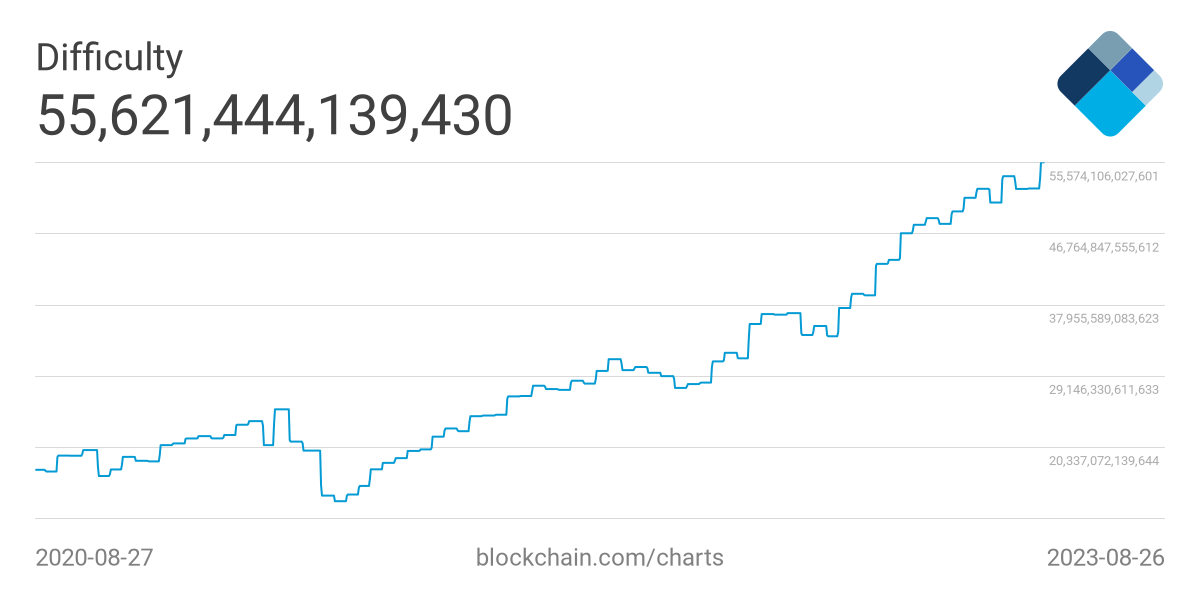
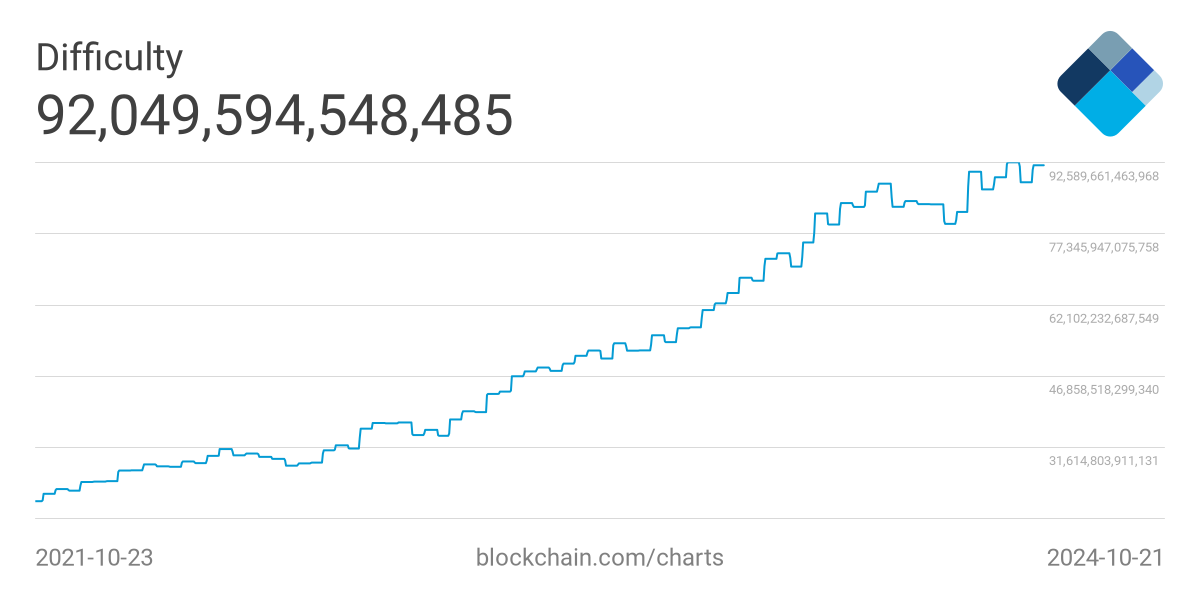
Updates cryptocurrency slide set with today's numbers

diff --git a/slides/cryptocurrency.html b/slides/cryptocurrency.html
@@ -433,11 +433,17 @@ Really just the last two will be relevant to this class
 </section>
 <section id="what-is-a-cryptocurrency-1" class="slide level2">
 <h2>What is a cryptocurrency?</h2>
-<p>According to Jan Lansky (<a href="http://si-journal.org/index.php/JSI/article/viewFile/335/325">source</a>) it has the following six properties: 1. No central authority, and its state is maintained through distributed consensus 2. The system keeps an overview of cryptocurrency units and their ownership 3. The system defines whether new cryptocurrency units can be created and how 4. Ownership of cryptocurrency units can be proved exclusively cryptographically</p>
+<p>According to Jan Lansky (<a href="http://si-journal.org/index.php/JSI/article/viewFile/335/325">source</a>) it has the following six properties:</p>
+<ol type="1">
+<li>No central authority, and its state is maintained through distributed consensus</li>
+<li>The system keeps an overview of cryptocurrency units and their ownership</li>
+<li>The system defines whether new cryptocurrency units can be created and how</li>
+<li>Ownership of cryptocurrency units can be proved exclusively cryptographically</li>
+</ol>
 </section>
 <section id="what-is-a-cryptocurrency-2" class="slide level2">
 <h2>What is a cryptocurrency?</h2>
-According to Jan Lansky (<a href="http://si-journal.org/index.php/JSI/article/viewFile/335/325">source</a>) it has the following six properties:
+<p>According to Jan Lansky (<a href="http://si-journal.org/index.php/JSI/article/viewFile/335/325">source</a>) it has the following six properties:</p>
 <ol start="5">
 <li>
 The system allows for transactions (transfers), which can only occur from the entity that can prove ownership of the source currency
@@ -450,10 +456,10 @@ If two different instructions for changing the ownership of the same cryptograph
 <section id="consider-the-aarondollar-tm" class="slide level2">
 <h2>Consider the AaronDollar (TM)</h2>
 <div class="noboxshadow">
-<p><img data-src="images/cryptocurrency/aaron-dollar.png"></p>
+<p><img data-src="images/cryptocurrency/aaron-dollar.png" style="background-color:transparent;height:400px"></p>
 </div>
 <ul>
-<li>Would you pay me 1 dollar for it? What about <code>$</code>10? <code>$</code>100?
+<li>Would you pay me 1 dollar for it? What about $10? $100?
 </li><li class="fragment" data-fragment-index="1">
 If I told you it would buy you an A+ in this course…
 <ul>
@@ -484,7 +490,7 @@ Would you pay me <code>$</code>100 then?
 <li>Some examples:
 <ul>
 <li>The US Dollar is the most widely used in international financial transactions</li>
-<li><img data-src="https://upload.wikimedia.org/wikipedia/commons/e/e3/Moneda_1_Bol%C3%ADvar_2021.png"> Due to the <a href="https://en.wikipedia.org/wiki/Crisis_in_Venezuela">crisis in Venezuela</a>, the Venezuelan <a href="https://en.wikipedia.org/wiki/Venezuelan_bol%C3%ADvar">bolivar soberano</a> (VEB), and its predecessor the bolivar fuerte, are essentially worthless
+<li><img data-src="https://upload.wikimedia.org/wikipedia/commons/e/e3/Moneda_1_Bol%C3%ADvar_2021.png" style="background-color:transparent"> Due to the <a href="https://en.wikipedia.org/wiki/Crisis_in_Venezuela">crisis in Venezuela</a>, the Venezuelan <a href="https://en.wikipedia.org/wiki/Venezuelan_bol%C3%ADvar">bolivar soberano</a> (VEB), and its predecessor the bolivar fuerte, are essentially worthless
 <ul>
 <li>The VEB had a 1,698,488% (yes, 1.7 <em>million</em> percent) inflation rate in 2018</li>
 <li>And about 5,000% in 2020</li>
@@ -493,7 +499,7 @@ Would you pay me <code>$</code>100 then?
 <ul>
 <li>Official currencies: USD and BTC</li>
 <li>Thus, little control over monetary policy…</li>
-<li>In 2021 they mined <code>$</code>269 in BTC for <code>$</code>4,672 (<a href="https://slashdot.org/story/21/12/11/188219/foreign-policy-magazine-bitcoin-failed-in-el-salvador-is-the-answer-more-bitcoin">source</a>)</li>
+<li>In 2021 they mined $269 in BTC for $4,672 (<a href="https://slashdot.org/story/21/12/11/188219/foreign-policy-magazine-bitcoin-failed-in-el-salvador-is-the-answer-more-bitcoin">source</a>)</li>
 </ul></li>
 </ul></li>
 </ul>
@@ -514,9 +520,9 @@ Would you pay me <code>$</code>100 then?
 <section id="cryptocurrencies" class="slide level2">
 <h2>Cryptocurrencies</h2>
 <ul>
-<li>There are 8,906 existing cryptocurrencies (that have value) <!-- change each semester -->
+<li>There are 9,906 existing cryptocurrencies (that have value) <!-- change each semester -->
 <ul>
-<li>As per <a href="https://www.investing.com/crypto/currencies">investing.com</a> (as of Aug 27, 2023)</li>
+<li>As per <a href="https://www.investing.com/crypto/currencies">investing.com</a> (as of Oct 22, 2024)</li>
 </ul></li>
 <li>One estimate is that 100 new ones are created <em>each day</em>
 <ul>
@@ -535,7 +541,7 @@ Would you pay me <code>$</code>100 then?
 <section id="bitcoin-basics" class="title-slide slide level1 center">
 <h1>Bitcoin Basics</h1>
 <div class="cclogosubtitle noboxshadow">
-<p><img data-src="images/cryptocurrency/btc-coin-symbol.svg"></p>
+<p><img data-src="images/cryptocurrency/btc-coin-symbol.svg" style="background-color:transparent"></p>
 </div>
 <!-- .slide: class="right-float-img .img-size-300" -->
 </section>
@@ -676,9 +682,9 @@ The actual record high varies by source
 <ul>
 <li>Thus, you can’t make a change to a previous block without changing all successive blocks</li>
 </ul></li>
-<li>The current blockchain (as of Aug 27, 2023) is 805,090 blocks (aka ‘height’; <a href="https://bitinfocharts.com/">source</a>)
+<li>The current blockchain (as of Oct 22, 2024) is 866,798 blocks (aka ‘height’; <a href="https://bitinfocharts.com/">source</a>)
 <ul>
-<li>About 494 Gb in size (<a href="https://www.blockchain.com/charts/blocks-size">source</a>) <!-- change each semester (be sure to divide that number by 1024) --></li>
+<li>About 610 Gb in size (<a href="https://www.blockchain.com/charts/blocks-size">source</a>) <!-- change each semester (be sure to divide that number by 1024) --></li>
 </ul></li>
 </ul>
 </section>
@@ -707,7 +713,7 @@ Simple Blockchain
 <section id="mining" class="title-slide slide level1 center">
 <h1>Mining</h1>
 <div class="cclogosubtitle noboxshadow">
-<p><img data-src="images/cryptocurrency/btc-coin-symbol.svg"></p>
+<p><img data-src="images/cryptocurrency/btc-coin-symbol.svg" style="background-color:transparent"></p>
 </div>
 </section>
 <section id="mining-1" class="slide level2">
@@ -766,16 +772,10 @@ Simple Blockchain
 <h2>Difficulty</h2>
 <ul>
 <li>First target (<span class="math inline">\(ft\)</span>): 00000000ffff00000000000000 00000000000000000000000000000000000000 <!-- formula: ft=26959535291011309493156476344723991336010898738574164086137773096960 --></li>
-<li>The current target (<span class="math inline">\(ct\)</span>) is 0000000000000000000561020000000 000000000000000000000000000000000 <!-- formula: ct=515199788182065911307653755120147792390991404454641664 -->
+<li>The current target (<span class="math inline">\(ct\)</span>) is 000000000000000000030ecd00000000 00000000000000000000000000000000 <!-- formula: ct=292880543616200952099263829421844968289989913814761472 -->
 <ul>
-<li>As of Aug 27, 2023 and can be found <a href="http://learnmeabitcoin.com/glossary/target">here</a>
-<ul>
-<li>That site is almost 5,000 blocks behind… <!-- change each semester --></li>
-</ul></li>
-<li>The new target is harder than the old: specifically <span class="math inline">\(ft/ct\)</span> = 52,328,312,063,444 times harder (that’s 52.3 <em>trillion</em>)
-<ul>
-<li>Actually it’s about 55.6 trillion now<!-- set this value to diff, such as via the formula: diff=55.62*10^12 --></li>
-</ul></li>
+<li>As of Oct 22, 2024 and can be found <a href="http://learnmeabitcoin.com/glossary/target">here</a> <!-- change each semester --></li>
+<li>The new target is harder than the old: specifically <span class="math inline">\(ft/ct\)</span> = 92,049,594,548,485 times harder (that’s 92 <em>trillion</em>) <!-- formula: diff=ft/ct --></li>
 </ul></li>
 <li>This number is the bitcoin <em>difficulty</em>, and the latest value can be found <a href="https://www.coinwarz.com/mining/bitcoin/difficulty-chart">here</a></li>
 </ul>
@@ -784,9 +784,9 @@ Simple Blockchain
 <h2>Current hash difficulty</h2>
 <ul>
 <li>For the first target, a random nonce had a 1 in 4.3 billion chance of success</li>
-<li>The current target is 55.6 trillion times harder
+<li>The current target is 92 trillion times harder
 <ul>
-<li>A random nonce now has a 1 in <span class="math inline">\(2.39 \times 10^{23}\)</span> chance of success <!-- change each semester; formula: chance=diff*2^32 --></li>
+<li>A random nonce now has a 1 in <span class="math inline">\(3.95 \times 10^{23}\)</span> chance of success <!-- change each semester; formula: chance=diff*2^32 --></li>
 </ul></li>
 </ul>
 </section>
@@ -801,8 +801,8 @@ Simple Blockchain
 <li>A very fast CPU today could do about 25 Mhash/sec</li>
 <li>A <a href="https://www.amazon.com/gp/product/B07GHXQTGZ/">$1,500 video card</a> today could do about 800 Mhash/sec (estimate based on <a href="https://en.bitcoin.it/wiki/Non-specialized_hardware_comparison#Nvidia">this</a> and <a href="https://gpu.userbenchmark.com/Compare/Nvidia-RTX-2080-vs-Nvidia-GeForce-GTX-590-SLI-Disabled/4026vsm8041">this</a>)</li>
 </ul></li>
-<li>Consider a 1 in <span class="math inline">\(2.39 \times 10^{23}\)</span> chance of success</li>
-<li>To generate <span class="math inline">\(2.39 \times 10^{23}\)</span> hashes at 800 million (8 Mhash) per second on a fast graphics card, this will take 9.5 <em>million years</em> <!-- change each semester; formula: gpuyears=chance/(365.25*24*60*60*800*10^6) --></li>
+<li>Consider a 1 in <span class="math inline">\(3.95 \times 10^{23}\)</span> chance of success</li>
+<li>To generate <span class="math inline">\(3.95 \times 10^{23}\)</span> hashes at 800 million (8 Mhash) per second on a fast graphics card, this will take 15.6 <em>million years</em> <!-- change each semester; formula: gpuyears=chance/(365.25*24*60*60*800*10^6) --></li>
 </ul>
 </section>
 <section id="electricity-usage" class="slide level2">
@@ -813,7 +813,7 @@ Simple Blockchain
 <ul>
 <li>A graphics card uses about 400 W (watts) (estimated from <a href="https://en.bitcoin.it/wiki/Non-specialized_hardware_comparison#Nvidia">here</a>)</li>
 <li>Electricity in Charlottesville costs 11.04 cents per kW/h (as per <a href="https://www.electricitylocal.com/states/virginia/charlottesville/">here</a>)</li>
-<li>This would cost about 3.7 billion dollars <!-- change each semester; formula: elecost=gpuyears*400/1000*24*365.25*0.1104 --></li>
+<li>This would cost about 6.1 billion dollars <!-- change each semester; formula: elecost=gpuyears*400/1000*24*365.25*0.1104 --></li>
 </ul>
 </section>
 <section id="why-so-hard" class="slide level2">
@@ -899,14 +899,14 @@ Simple Blockchain
 <section id="reward-per-block-1" class="slide level2">
 <h2>Reward per block</h2>
 <ul>
-<li>The current reward (as of Aug 27, 2023) is 6.25 BTC <!-- change each semester -->
+<li>The current reward (as of Oct 22, 2024) is 3.125 BTC <!-- change each semester -->
 <ul>
 <li>Plus transaction fees of around 0.1 BTC or so</li>
 <li>The estimated date when it drops to 3.125 BTC is April 2024 (<a href="https://www.bitcoinblockhalf.com/">source</a>)</li>
 </ul></li>
-<li>At a price of about $26k per block (<a href="https://www.coindesk.com/price/bitcoin">source</a>), 6.35 BTC is about $166k for a properly signed block <!-- change each semester --><!-- formula: reward=166*1000 -->
+<li>At a price of about $68.4k per block (<a href="https://www.coindesk.com/price/bitcoin">source</a>), 3.225 BTC is about $220k for a properly signed block <!-- change each semester --><!-- formula: reward=220*1000 -->
 <ul>
-<li>But if it costs almost 4 billion dollars in electricity, perhaps it’s not all that worth it</li>
+<li>But if it costs over 6 billion dollars in electricity, perhaps it’s not all that worth it <!-- change this each semester --></li>
 <li>Unless you use somebody else’s electricity…</li>
 </ul></li>
 </ul>
@@ -936,7 +936,7 @@ Simple Blockchain
 </section>
 <section id="hashes-per-second" class="slide level2">
 <h2>Hashes per second</h2>
-<p>From <a href="https://www.blockchain.com/charts/hash-rate">blockchain.com</a>, and for the entire Bitcoin network; E = exa = <span class="math inline">\(10^{18}\)</span> <!-- change each semester --> <!-- formula: hashrate=390.9*10^18 --> <img data-src="images/cryptocurrency/btc-hashes-per-sec.webp" alt="hashes per second"></p>
+<p>From <a href="https://www.blockchain.com/charts/hash-rate">blockchain.com</a>, and for the entire Bitcoin network;<br>E = exa = <span class="math inline">\(10^{18}\)</span> <!-- change each semester --> <!-- formula: hashrate=663*10^18 --> <img data-src="images/cryptocurrency/btc-hashes-per-sec.webp" alt="hashes per second"></p>
 </section>
 <section id="mining-hardware" class="slide level2">
 <h2>Mining hardware</h2>
@@ -946,10 +946,11 @@ Simple Blockchain
 <ul>
 <li>A whole industry has sprung up: you can find the hardware online (such as <a href="https://www.bitcoinmining.com/bitcoin-mining-hardware/">here</a>)</li>
 <li>These devices are much faster and use much less electricity</li>
-<li>Consider the <a href="https://www.amazon.com//dp/B08ZNMGKZ1/">DragonX AntMiner S19</a>, which costs <code>$</code>1,200 (as of Aug 27, 2023)
+<li>Consider the <a href="https://www.amazon.com//dp/B08ZNMGKZ1/">DragonX AntMiner S19</a>, which costs $1,200 (as of Oct 22, 2024)
 <ul>
 <li>It can compute 90 Thash/sec (tera), or <span class="math inline">\(90 \ast 10^{12}=9 \ast 10^{13}\)</span> hash/sec</li>
 <li>I don’t believe their numbers that they posted at that link, though</li>
+<li>This is now a much older miner</li>
 </ul></li>
 </ul>
 </section>
@@ -974,13 +975,13 @@ Simple Blockchain
 <ul>
 <li>We know that:
 <ul>
-<li>The current hash rate is about 391 EH/s</li>
-<li>Blocks take about 10 minutes to process (actually about 12m 6s right now (<a href="https://bitinfocharts.com/">source</a>))</li>
+<li>The current hash rate is about 663 EH/s</li>
+<li>Blocks take about 10 minutes to process (actually about 9m 4s right now (<a href="https://bitinfocharts.com/">source</a>))</li>
 <li>The <a href="https://www.amazon.com/dp/B08ZNMGKZ1">DragonX AntMiner S19</a> claims to hash 90 TH/s <!-- formula: minerrate=90*10^12 --></li>
 </ul></li>
-<li>391 exa / 90 tera = <span class="math inline">\(391 \cdot 10^{18} / 90 \cdot 10^{12} = 4.34 \cdot 10^{6}\)</span> or 4 million <!-- formula: blockreward=hashrate/minerrate --></li>
-<li>Thus, you would expect to get one 4-millionth of a block’s reward in a pooled setup <!-- formula: profitperblock=reward/blockreward --></li>
-<li>At <code>$</code>166 per block, that’s about 3.8 <em>cents</em> per block</li>
+<li>663 exa / 90 tera = <span class="math inline">\(663 \cdot 10^{18} / 90 \cdot 10^{12} = 7.4 \cdot 10^{6}\)</span> or 7.4 million <!-- formula: blockreward=hashrate/minerrate --></li>
+<li>Thus, you would expect to get one 7.4-millionth of a block’s reward in a pooled setup <!-- formula: profitperblock=reward/blockreward --></li>
+<li>At $220k per block, that’s about 2.9 <em>cents</em> per block</li>
 <li>(And we aren’t counting electricity here)</li>
 </ul>
 </section>
@@ -988,21 +989,21 @@ Simple Blockchain
 <h2><a href="https://www.amazon.com/dp/B08ZNMGKZ1">DragonX AntMiner S19</a> analysis</h2>
 <!-- change each semester -->
 <ul>
-<li>At <code>$</code>166 per block, that’s about 3.8 cents per block
+<li>At $220k per block, that’s about 2.9 cents per block
 <ul>
-<li>Which is $5.50 per day <!-- formula: profitperday=profitperblock*24*6 -->
+<li>Which is $4.30 per day <!-- formula: profitperday=profitperblock*24*6 -->
 <ul>
-<li>This assumes 10 minute blocks; it’s a less with 12m6s blocks</li>
+<li>This assumes 10 minute blocks; it’s a bit more with 9m4s blocks</li>
 </ul></li>
-<li>You will make back your initial investment of <code>$</code>1,200 (plus tax) 220 days
+<li>You will make back your initial investment of $1,200 (plus tax) 280 days
 <ul>
-<li>That’s 7.3 months</li>
+<li>That’s 9.3 months</li>
 </ul></li>
 </ul></li>
 <li>This assumes that the numbers don’t change!
 <ul>
 <li>And that you aren’t paying for electricity</li>
-<li>And we know the reward per block will go down in April of 2024…</li>
+<li>And we know the reward per block will go down in April of 2028…</li>
 </ul></li>
 <li>There is also <a href="https://www.amazon.com/dp/B0CCK4RDJF/">one available</a> that mines twice times as fast but costs 3.5 times as much, but uses less power</li>
 </ul>
@@ -1011,19 +1012,19 @@ Simple Blockchain
 <h2><a href="https://www.amazon.com/dp/B08ZNMGKZ1">DragonX AntMiner S19</a> analysis</h2>
 <!-- change each semester -->
 <ul>
-<li>You will make $5.50 in BTC per day</li>
+<li>You will make $4.30 in BTC per day</li>
 <li>But… electricity is not free</li>
 <li>Stated power usage: 3,250 W or 3.25 kW
 <ul>
 <li>Over 24 hours that’s <span class="math inline">\(24 * 3.25 = 78\)</span> kWh</li>
-<li>At Charlottesville’s rate of 11.04¢ per kWh, that’s <code>$</code>8.61 per day
+<li>At Charlottesville’s rate of 11.04¢ per kWh, that’s $8.61 per day
 <ul>
-<li>About <code>$</code>260 per month</li>
+<li>About $260 per month</li>
 </ul></li>
 </ul></li>
-<li>So your total daily profit is: <code>$</code>5.50 - <code>$</code>8.61 or
+<li>So your total daily profit is: $4.30 - $8.61 or
 <ul>
-<li><em>Negative</em> <code>$</code>3.11 cents per day!</li>
+<li><em>Negative</em> $4.31 cents per day!</li>
 </ul></li>
 </ul>
 </section>
@@ -1040,7 +1041,7 @@ Simple Blockchain
 </ul></li>
 <li>When done on a large scale
 <ul>
-<li>One can make deals with power companies, locate where power is cheaper, etc.</li>
+<li>One can make deals with power companies, relocate where power is cheaper, avoid tarrifs on the miners, etc.</li>
 </ul></li>
 </ul>
 </section>
